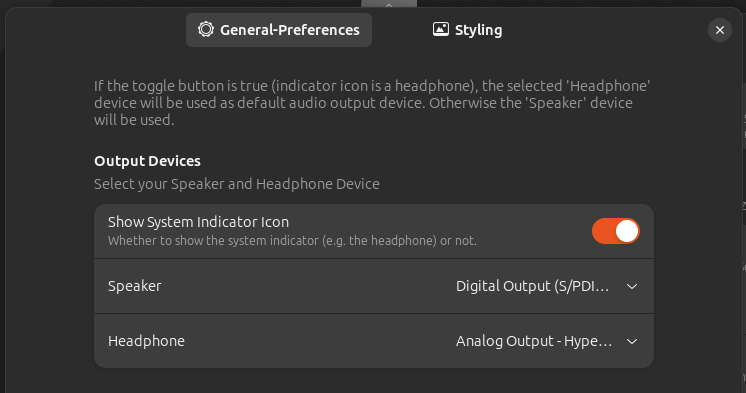
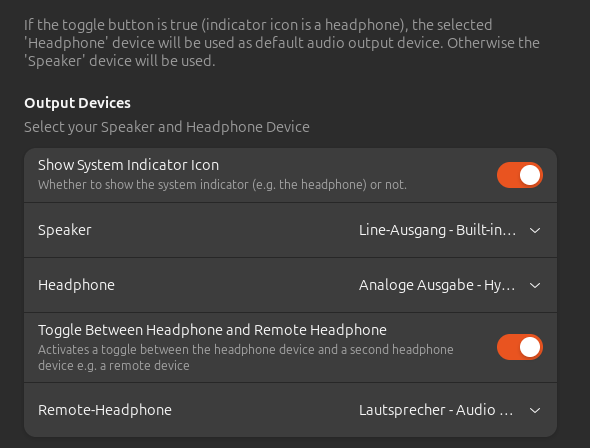
updated README

diff --git a/README.md b/README.md
@@ -35,8 +35,10 @@ then you can switch between those `devices` with a click of a button:
   * default: <kbd>ctrl</kbd>+<kbd>super</kbd>+<kbd>S</kbd>
 * select Headphone
   * default: <kbd>ctrl</kbd>+<kbd>super</kbd>+<kbd>H</kbd>
-* toggle Headphone / Remote Headphone (or second Headphone)
-  * default: <kbd>ctrl</kbd>+<kbd>super</kbd>+<kbd>R</kbd>
+* toggle Headphone / Remote Headphone (or second Headphone) 
+  * **this is only visible when the feature is activated**
+   
+    default: <kbd>ctrl</kbd>+<kbd>super</kbd>+<kbd>R</kbd>
 
 You can `enable` those in the settings:
 
